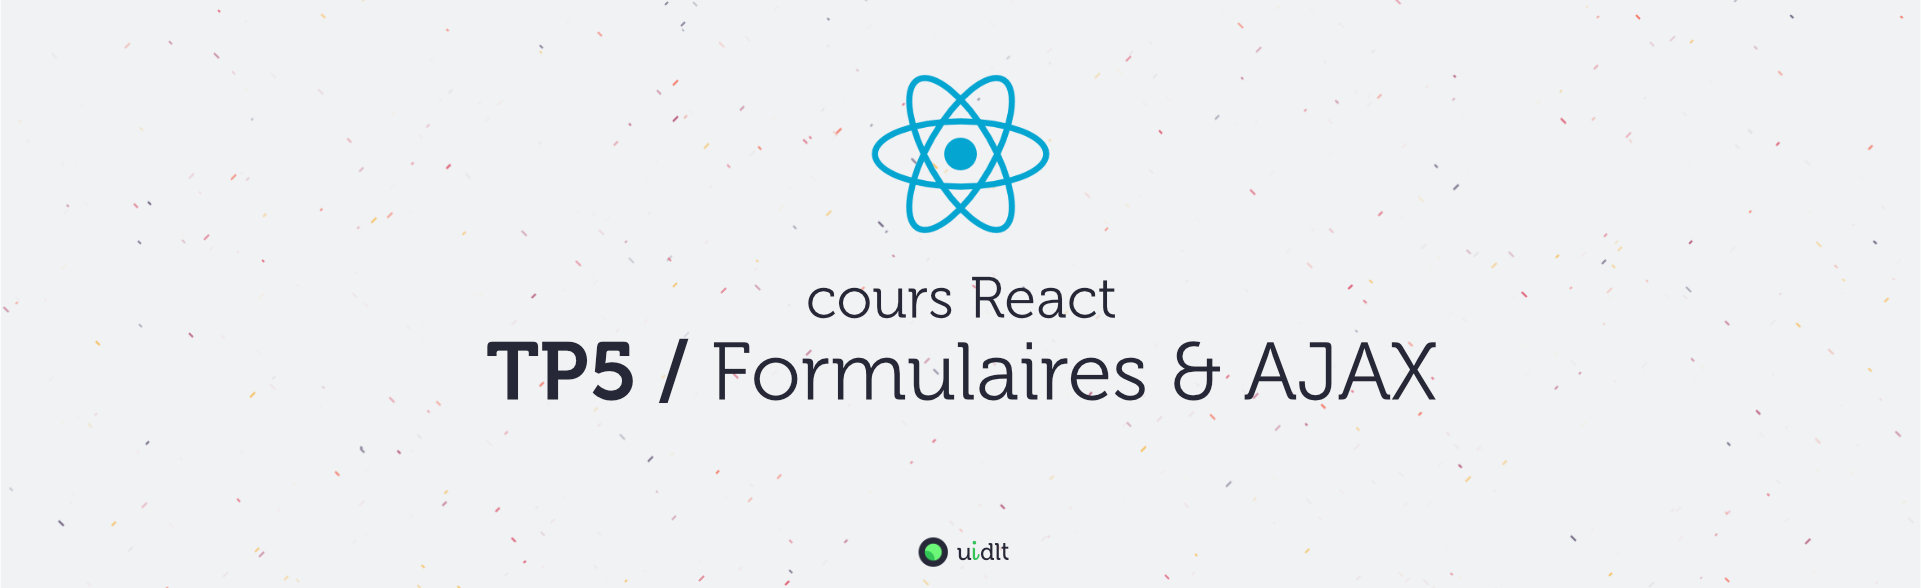
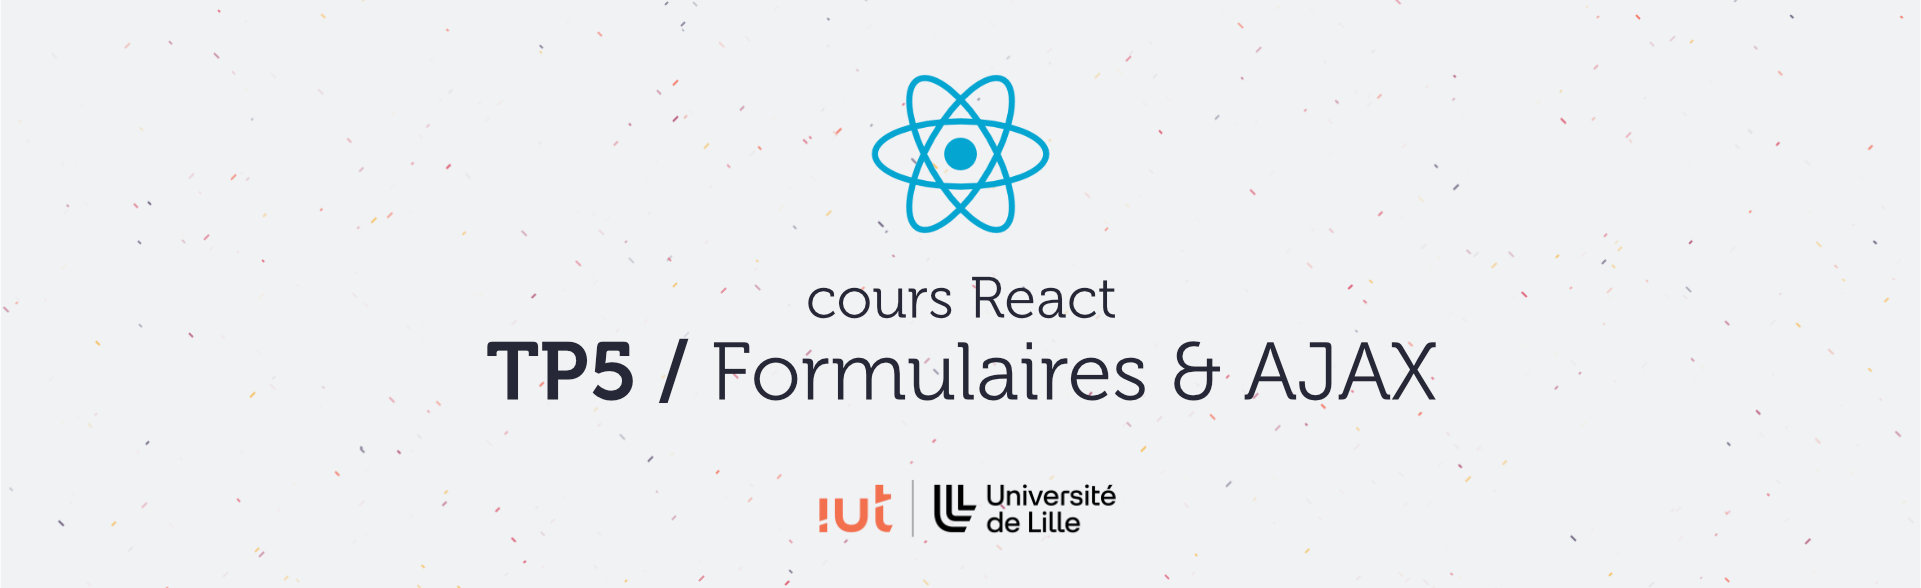
cours-iut: maj readme + headers + package.json + footer
squash merge depuis upstream tp4/cours-iut

Changed region(s): [[0.406, 0.8265, 0.5934, 0.9796]]

diff --git a/index.html b/index.html
@@ -16,7 +16,9 @@
 <body>
 	<section class="appContainer"></section>
 	<footer>
-		<div>Une (incroyable) création originale de <a href="http://uidlt.fr">Une idée derrière la tech</a> 2024</div>
+		<div>Une création originale de  <a href="http://uidlt.fr">Thomas Fritsch</a> pour l'<a href="https://www.iut-a.univ-lille.fr/">IUT</a> de l'<a href="https://www.univ-lille.fr/">Université de Lille</a>
+		</div>
+		<img src="images/logo-iut.png" />
 		<div>Free photos from <a href="https://unsplash.com/unsplash">Unsplash</a></div>
 	</footer>
 </body>

diff --git a/A-preparatifs.md b/A-preparatifs.md
@@ -12,16 +12,16 @@
 ## A.1. Récupération du projet
 Vous commencez maintenant à avoir l'habitude, je ne rentrerai donc pas dans les détails mais voici les différentes étapes pour le lancement du projet en mode [TL;DR](https://en.wiktionary.org/wiki/tl;dr)
 
-1. **Commencez par fork le TP sur https://framagit.org/cours-react/tp5/-/forks/new**
+1. **Commencez par fork le TP sur https://gitlab.univ-lille.fr/react/tp5/-/forks/new**
 
 	- **placé dans VOTRE profil utilisateur** (`namespace`)
 	- **en mode "private"** (`Visibility Level`)
-	- ⚠ **ajoutez-moi en `"reporter"`** ⚠
+	- ⚠ **ajoutez votre encadrant de TP (`@gery.casiez` ou `@thomas.fritsch`) en `"reporter"`** ⚠
 
 2. **Tapez dans un terminal :**
 	```bash
 	mkdir ~/tps-react
-	git clone https://framagit.org/<votre-username>/tp5.git ~/tps-react/tp5
+	git clone https://gitlab.univ-lille.fr/<votre-username>/tp5.git ~/tps-react/tp5
 	codium ~/tps-react/tp5
 	```
 3. **Puis dans un terminal intégré de VSCodium** (<kbb>CTRL/Cmd</kbd>+<kbd>J</kbd>) :
@@ -29,7 +29,7 @@ Vous commencez maintenant à avoir l'habitude, je ne rentrerai donc pas dans les
 	npm i
 	npm start
 	```
-	> _**NB :** si vous souhaitez plus de précisions sur les commandes précédentes et l'installation  / configuration du projet, vous pouvez vous référer au chapitre [A. Préparatifs](https://framagit.org/cours-react/tp2/-/blob/master/A-preparatifs.md) du TP2 ou simplement demander de l'aide au formateur_ 😄
+	> _**NB :** si vous souhaitez plus de précisions sur les commandes précédentes et l'installation  / configuration du projet, vous pouvez vous référer au chapitre [A. Préparatifs](https://gitlab.univ-lille.fr/react/tp2/-/blob/cours-iut/A-preparatifs.md) du TP2 ou simplement demander de l'aide au formateur_ 😄
 
 4. **Lancez votre site en mode "debug dans vscode"** : tapez <kbd>CTRL</kbd>+<kbd>SHIFT</kbd>+<kbd>P</kbd> puis sélectionnez `"Debug: Select and start debugging"` ou appuyez simplement sur la touche <kbd>F5</kbd>.
 
@@ -37,14 +37,25 @@ Vous commencez maintenant à avoir l'habitude, je ne rentrerai donc pas dans les
 
 	<img src="images/readme/screen-00.png" >
 
+5. **Avant de vous lancer dans ce TP, prenez 5 à 10 minutes pour lire le code contenu dans le dossier `/src`** et comparez-le avec votre code du précédent TP.
+
+	**C'est important de bien comprendre le code qui vous est fourni car il servira de base aux exercices de ce TP** : si des points ne sont pas clairs, interrogez votre encadrant.e de TP !
+
+	**Attention : si vous n'aviez pas eu le temps de terminer le précédent TP**, portez une attention toute particulière aux fichiers :
+	- `Navigator.jsx`
+	- `VideoDetail.jsx` et `CommentList.jsx`
+	- `VideoList.jsx` et `VideoThumbnail.jsx`
+
+
+
 ## A.2. Lancement de l'API REST
-_**Dans ce TP on va enfin connecter notre appli web à une base de données grâce à une API REST qui vous est fournie ici : https://framagit.org/cours-react/api-server**_
+_**Dans ce TP on va enfin connecter notre appli web à une base de données grâce à une API REST qui vous est fournie ici : https://gitlab.univ-lille.fr/react/api-server**_
 
 Ce serveur (_basé sur [Express.js](http://expressjs.com/)_) fournit une API REST minimaliste mais qui va être suffisante pour connecter notre appli React à une base de données [SQLite](https://sqlite.org/index.html) (_générée à la volée_).
 
 1. **Commencez par cloner le serveur :**
 	```bash
-	git clone https://framagit.org/cours-react/api-server.git ~/tps-react/api-server
+	git clone https://gitlab.univ-lille.fr/react/api-server.git ~/tps-react/api-server
 	```
 2. **Installez ensuite les dépendances du serveur :**
 	```bash
